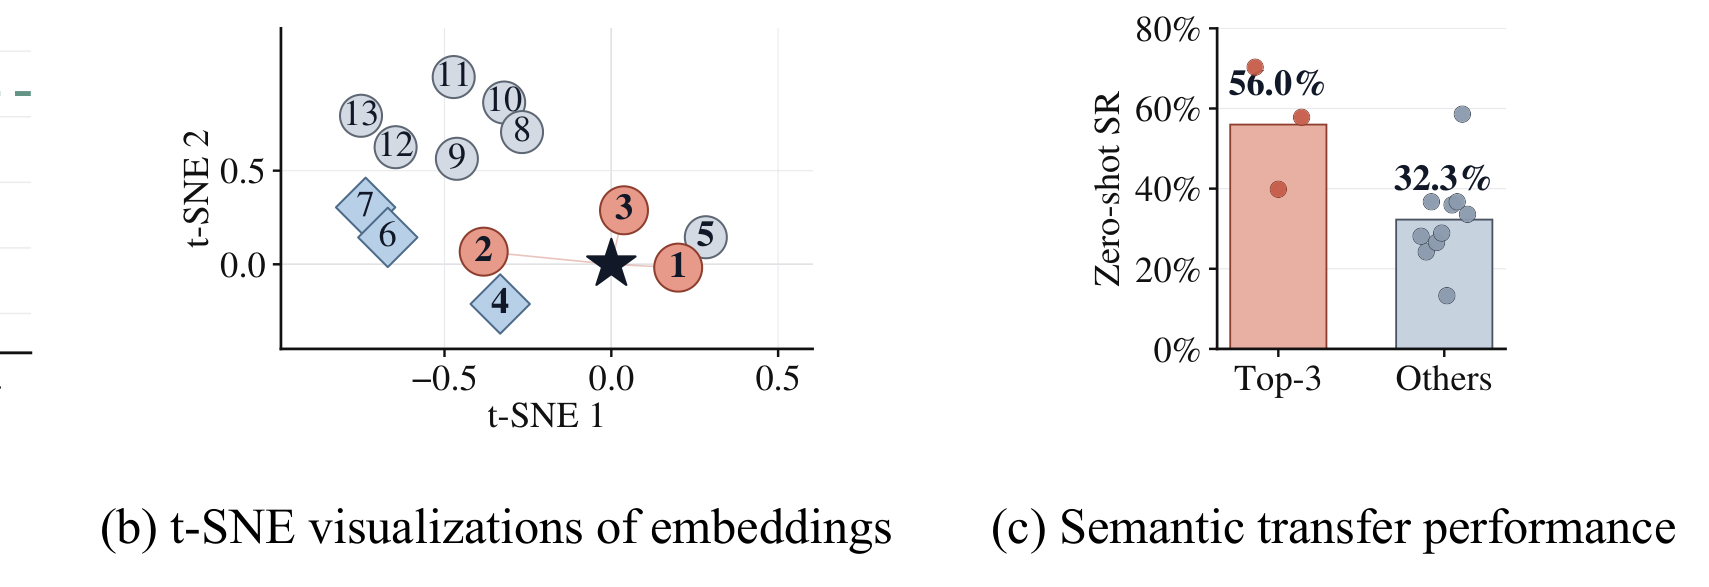
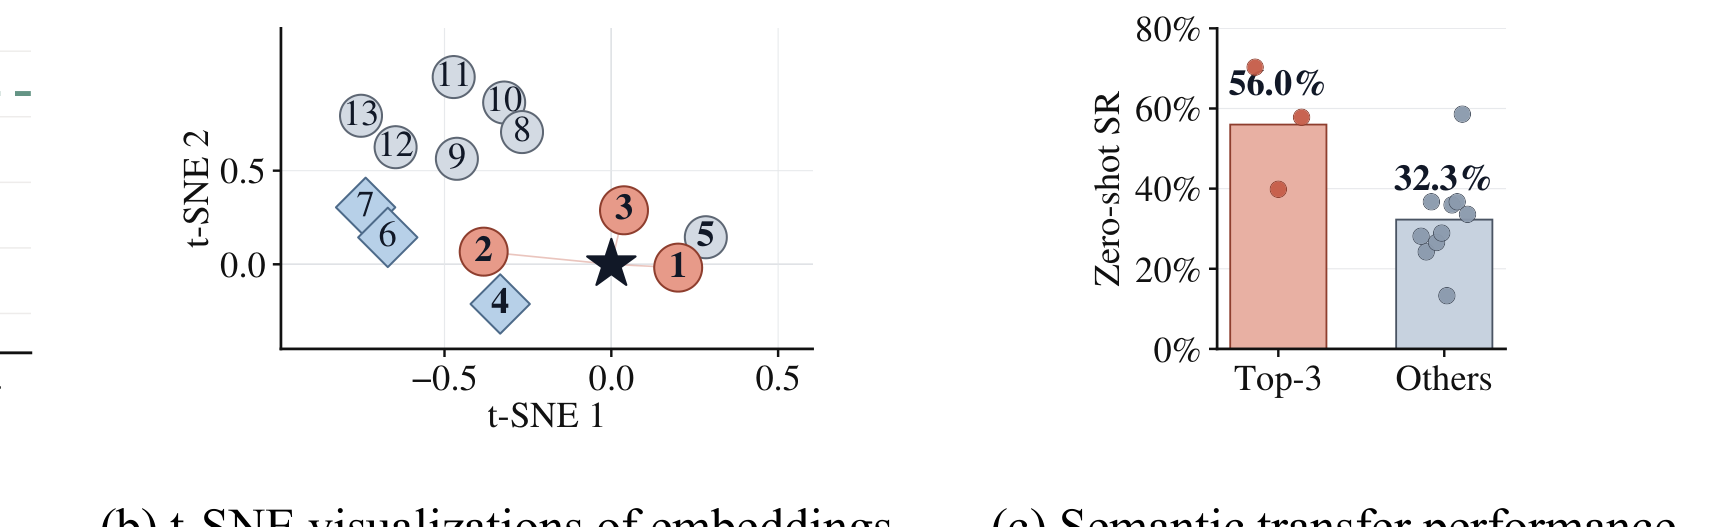
Crop bottom labels from case study, shrink comparison figure

diff --git a/static/css/index.css b/static/css/index.css
@@ -98,7 +98,8 @@ body {
 }
 
 .figure-overview figcaption,
-.figure-normal figcaption {
+.figure-normal figcaption,
+.figure-small figcaption {
   color: #565656;
   font-size: 0.95rem;
   line-height: 1.55;
@@ -120,6 +121,20 @@ body {
   height: auto;
   margin: 0 auto;
   max-width: 68%;
+}
+
+.figure-small {
+  text-align: center;
+}
+
+.figure-small img {
+  background: #fff;
+  border: 1px solid #e0e0e0;
+  border-radius: 8px;
+  display: block;
+  height: auto;
+  margin: 0 auto;
+  max-width: 50%;
 }
 
 .demo-item video {
@@ -239,7 +254,8 @@ pre {
     grid-template-columns: 1fr;
   }
 
-  .figure-normal img {
+  .figure-normal img,
+  .figure-small img {
     max-width: 100%;
   }
 

diff --git a/index.html b/index.html
@@ -119,7 +119,7 @@
           <div class="column is-full-width">
             <h2 class="title is-2 section-title">Comparison with Baselines</h2>
 
-            <figure class="figure-normal">
+            <figure class="figure-small">
               <img src="./assets/figures/growth_curve.png" alt="Training growth curves" loading="lazy">
               <figcaption>
                 Per-task success rate growth curves. Conquer rapidly acquires new skills while